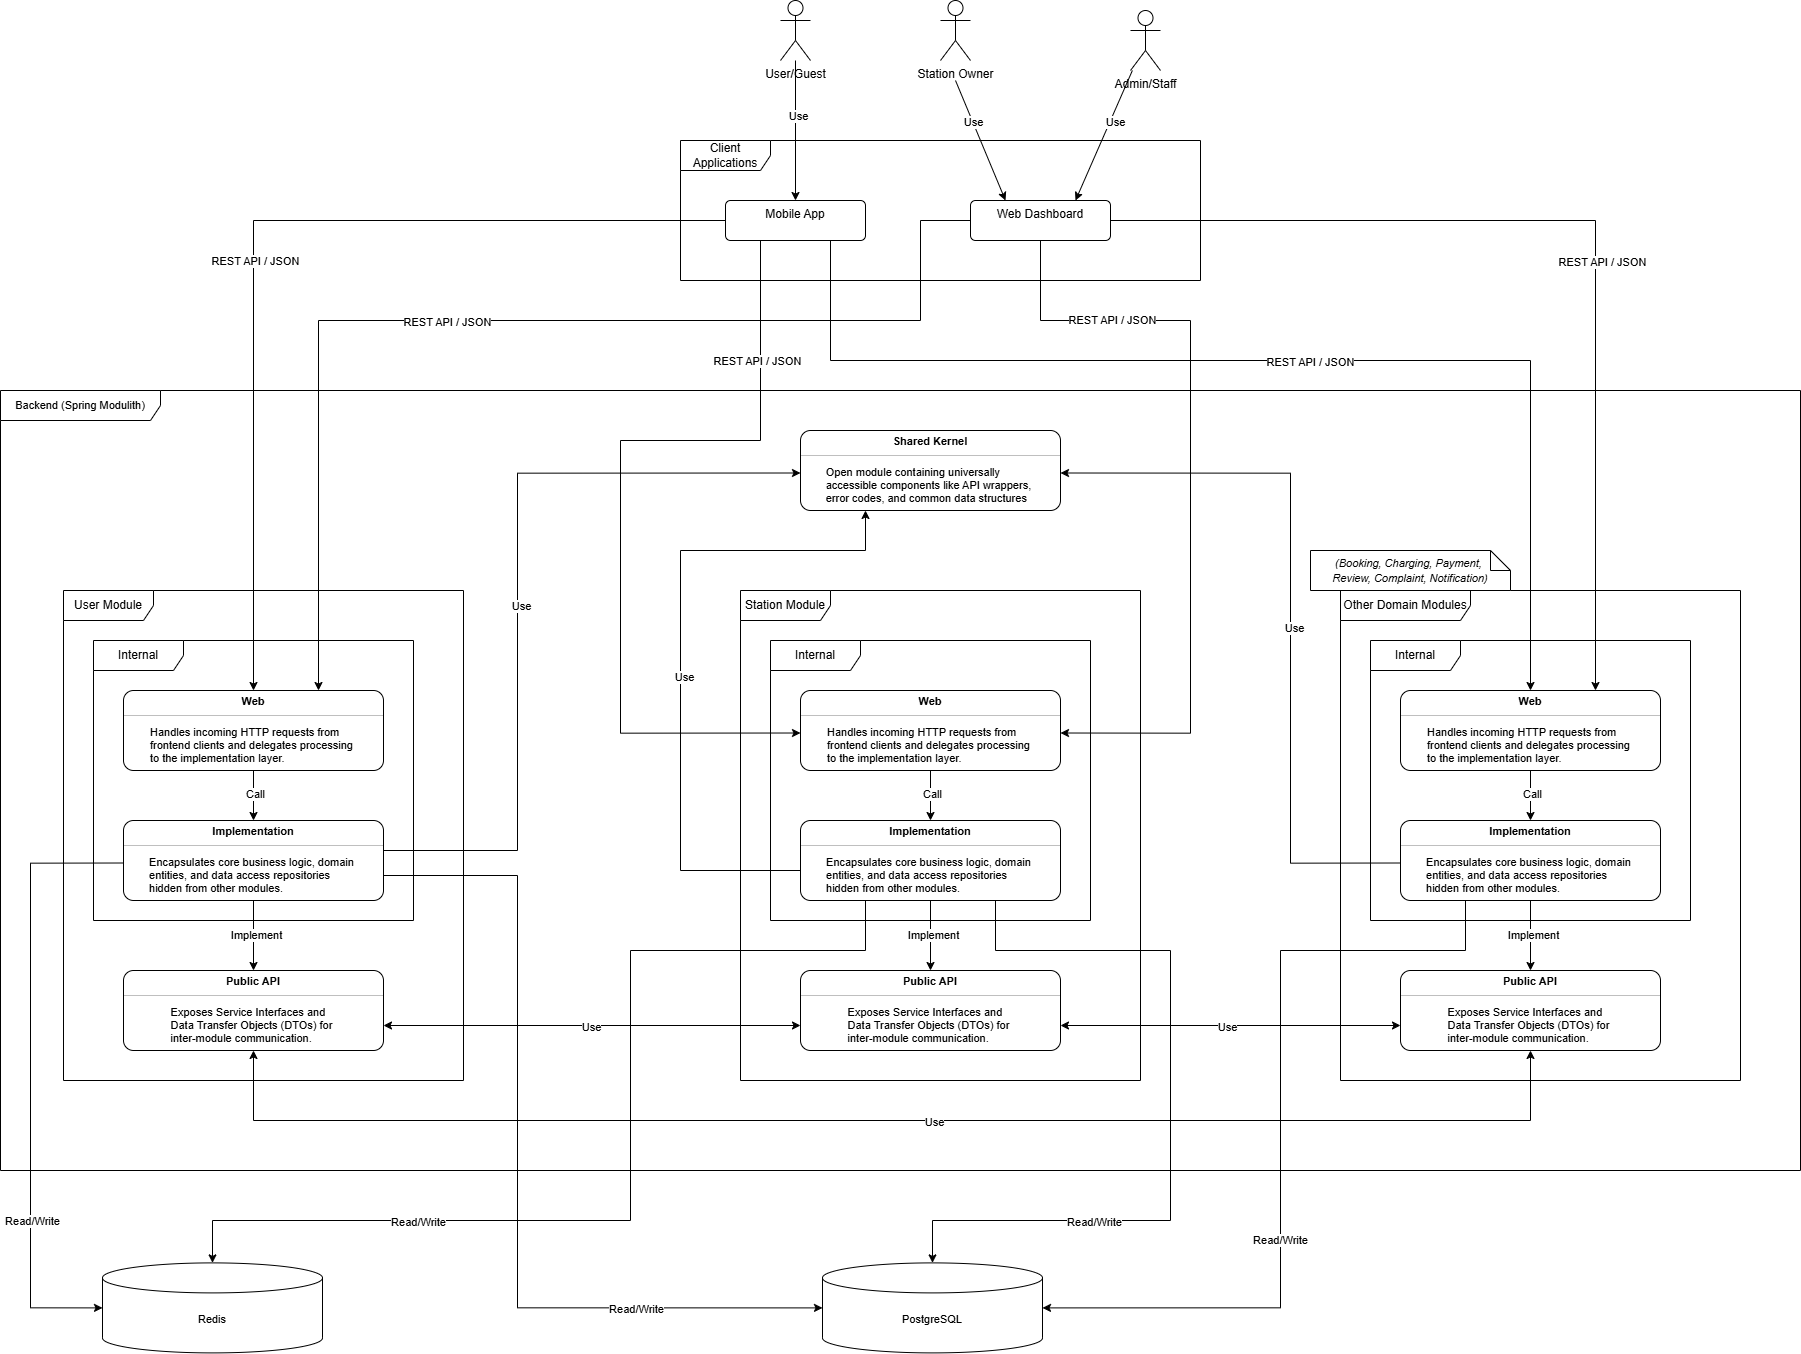
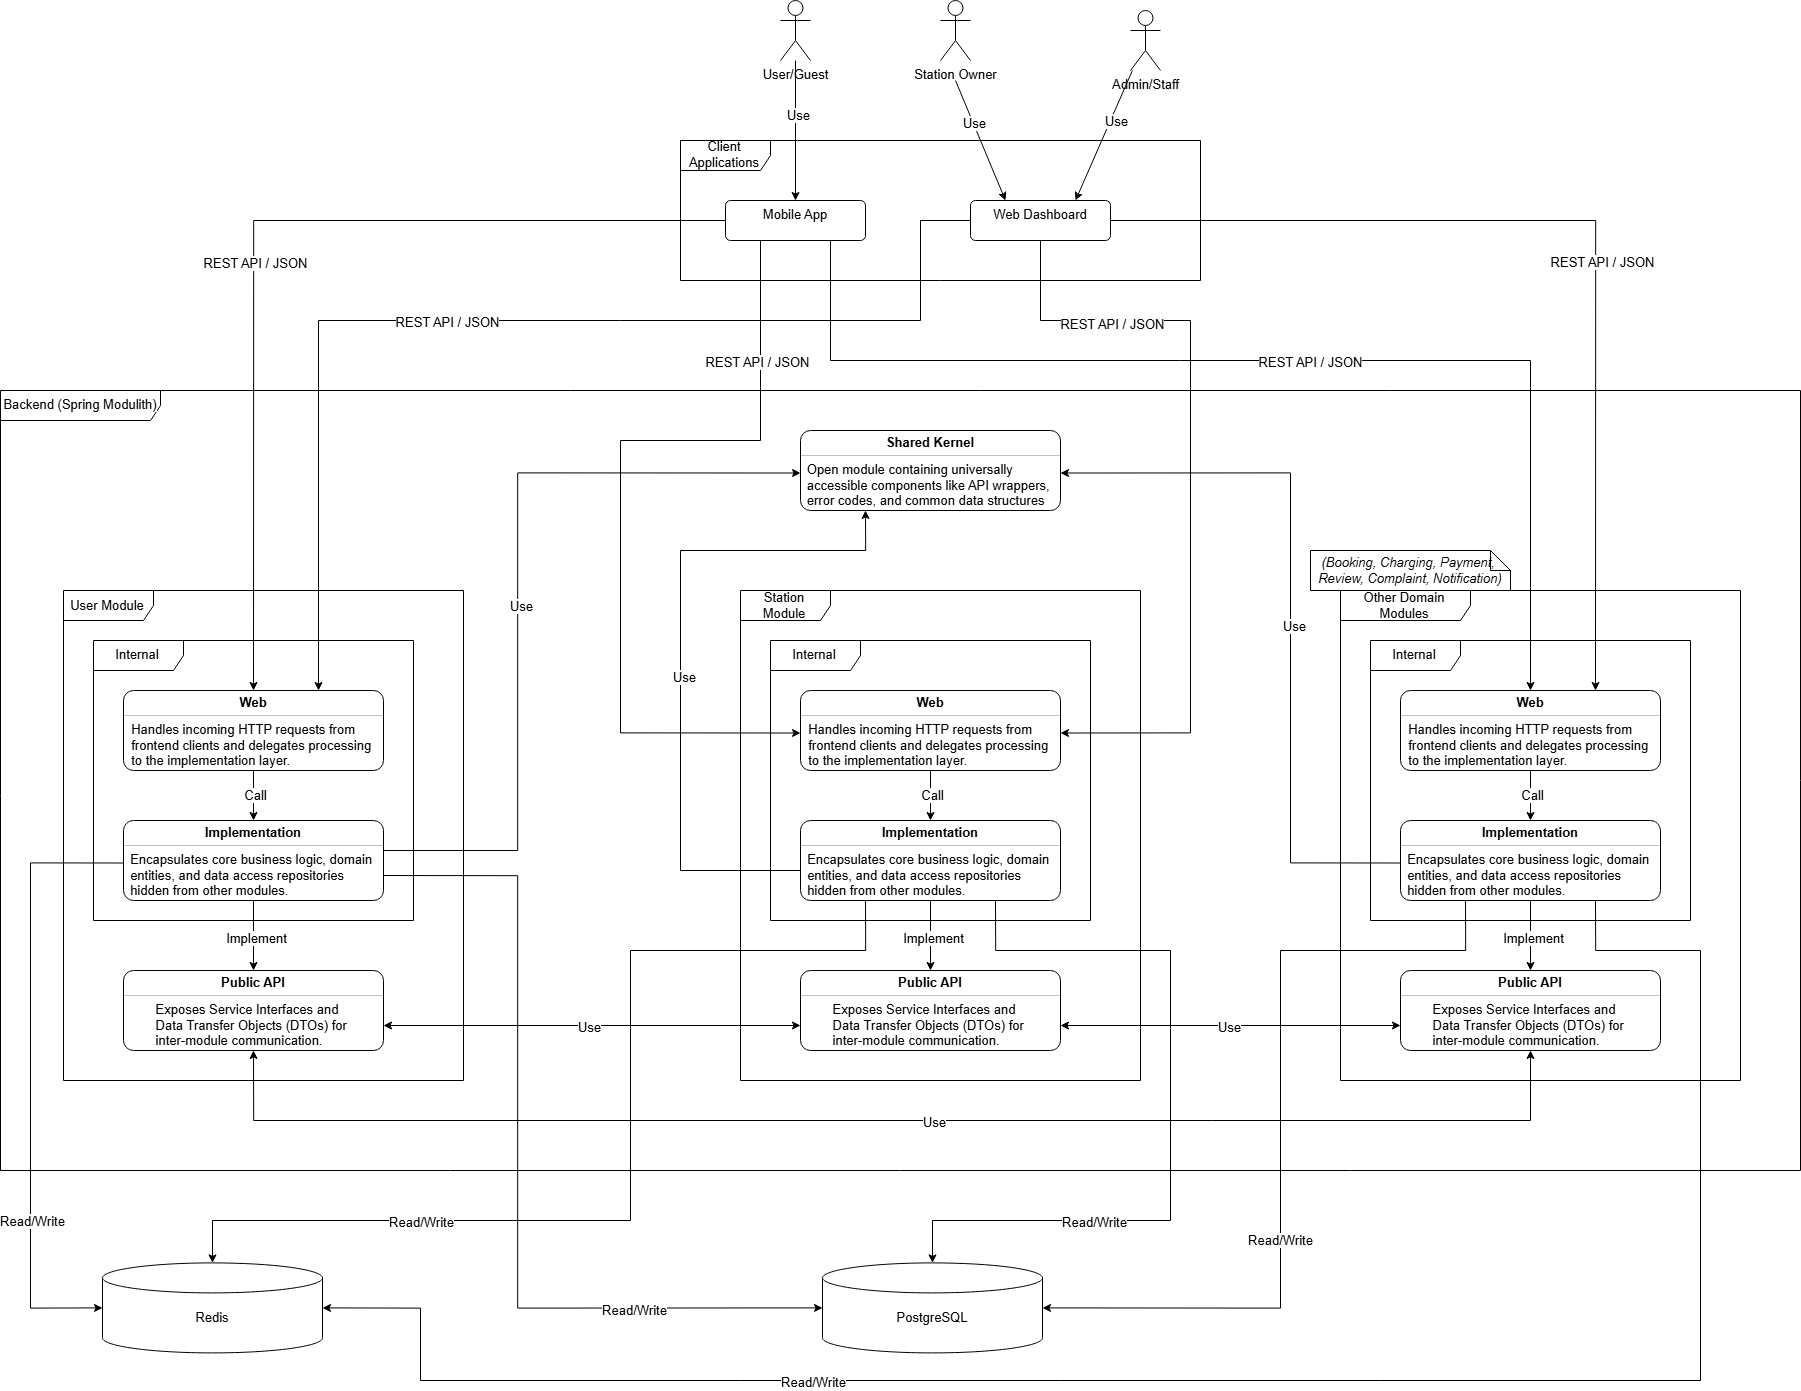
Thêm giao diện mobile vào chương 6

diff --git a/chapters/5_ThietKe.tex b/chapters/5_ThietKe.tex
@@ -12,8 +12,8 @@ Dựa trên yêu cầu về tính linh hoạt, khả năng bảo trì và mở r
 Khác với kiến trúc Layered Monolith truyền thống (phân chia theo tầng kỹ thuật: Controller, Service, Repository), kiến trúc của EV-Go phân chia hệ thống theo các nghiệp vụ chức năng. Mỗi nghiệp vụ được đóng gói thành một Module độc lập về mặt logic nhưng vẫn cùng tồn tại trong một đơn vị triển khai duy nhất.
 Mô hình này mang lại các ưu điểm vượt trội cho hệ thống:
 \begin{itemize}
-  \item \textbf{Tính đóng gói cao:} Mỗi module ẩn giấu implementation chi tiết và chỉ giao tiếp với bên ngoài thông qua các API công khai (Public API) được định nghĩa rõ ràng.
-  \item \textbf{Giảm thiểu sự phụ thuộc:} Sự phụ thuộc vòng (circular dependency) giữa các module bị ngăn chặn nghiêm ngặt ngay từ giai đoạn biên dịch nhờ cơ chế kiểm soát của Spring Modulith.
+  \item \textbf{Tính đóng gói cao:} Mỗi module ẩn giấu implementation chi tiết và chỉ giao tiếp với bên ngoài thông qua các Public API được định nghĩa rõ ràng.
+  \item \textbf{Giảm thiểu sự phụ thuộc:} Sự phụ thuộc vòng giữa các module bị ngăn chặn nghiêm ngặt ngay từ giai đoạn biên dịch nhờ cơ chế kiểm soát của Spring Modulith.
   \item \textbf{Khả năng tiến hóa:} Khi quy mô hệ thống tăng trưởng, các module độc lập có thể dễ dàng được tách ra thành các Microservices riêng biệt mà không cần thay đổi lớn về cấu trúc mã nguồn.
 \end{itemize}
 \subsubsection{Cấu trúc chi tiết của một Module}
@@ -29,14 +29,14 @@ Một đặc trưng quan trọng trong kiến trúc của hệ thống là sự 
 \subsubsection{Cơ chế giao tiếp liên Module (Inter-module Communication)}
 Hệ thống thiết lập quy tắc giao tiếp một chiều nghiêm ngặt để duy trì tính toàn vẹn của kiến trúc:
 \begin{itemize}
-  \item Các module giao tiếp với nhau \textbf{thông qua Public API}. Ví dụ, khi \textit{Station Module} cần thông tin chủ trạm, nó sẽ gọi \textit{UserService Interface} công khai thay vì truy cập trực tiếp vào bảng \textit{User} trong cơ sở dữ liệu.
+  \item Các module giao tiếp với nhau thông qua Public API. Ví dụ, khi \textit{Station Module} cần thông tin chủ trạm, nó sẽ gọi \textit{UserService Interface} thay vì truy cập trực tiếp vào bảng \textit{User} trong cơ sở dữ liệu.
   \item \textbf{Shared Kernel (Module dùng chung):} Nhằm hạn chế sự lặp lại mã nguồn, hệ thống xây dựng một module đặc biệt là \textit{Shared Kernel}. Module này đóng vai trò là thư viện nội bộ (Open Module), chứa các thành phần dùng chung cho toàn hệ thống như: mã lỗi, các lớp xử lý ngoại lệ toàn cục, và các cấu trúc dữ liệu chuẩn áp dụng cho toàn hệ thống. Tất cả các module nghiệp vụ đều có thể truy cập và sử dụng tài nguyên từ Shared Kernel.
 \end{itemize}
 \subsubsection{Hạ tầng dữ liệu}
-Dù được chia thành nhiều module logic, hệ thống sử dụng chung một cơ sở dữ liệu PostgreSQL để đảm bảo tính nhất quán của dữ liệu giao dịch (ACID) và đơn giản hóa việc quản lý. Tuy nhiên, việc truy xuất dữ liệu vẫn được phân quyền logic: mã nguồn của module nào chỉ được phép truy vấn các bảng dữ liệu thuộc phạm vi nghiệp vụ của module đó. Bên cạnh đó, Redis được tích hợp để giải quyết bài toán hiệu năng cao cho việc caching dữ liệu trạm sạc và quản lý phiên làm việc.
+Dù được chia thành nhiều module logic, hệ thống sử dụng chung một cơ sở dữ liệu PostgreSQL để đảm bảo tính nhất quán của dữ liệu giao dịch (ACID) và đơn giản hóa việc quản lý. Tuy nhiên, việc truy xuất dữ liệu vẫn được phân quyền logic: mã nguồn của module nào chỉ được phép truy vấn các bảng dữ liệu thuộc phạm vi nghiệp vụ của module đó. Bên cạnh đó, Redis được tích hợp để giải quyết bài toán hiệu năng cao cho việc caching dữ liệu và quản lý phiên làm việc.
 Tóm lại, kiến trúc Modular Monolith của hệ thống EV-Go không chỉ đáp ứng tốt các yêu cầu nghiệp vụ hiện tại mà còn tạo dựng một nền tảng vững chắc, sẵn sàng cho việc mở rộng quy mô và nâng cấp công nghệ trong tương lai.
 \subsection{Mô hình dữ liệu}
-Hình \ref{fig:evgo_erd} dưới đây mô tả sơ đồ thực thể mối quan hệ (Entity Relationship Diagram - ERD) của hệ thống EV-Go. Mô hình này được thiết kế nhằm đảm bảo tính toàn vẹn dữ liệu, khả năng mở rộng và hiệu năng truy vấn cho các nghiệp vụ cốt lõi như quản lý trạm sạc, đặt lịch, phiên sạc và thanh toán.
+Hình ảnh dưới đây mô tả sơ đồ thực thể quan hệ (Entity Relationship Diagram - ERD) của hệ thống EV-Go. Mô hình này được thiết kế nhằm đảm bảo tính toàn vẹn dữ liệu, khả năng mở rộng và hiệu năng truy vấn cho các nghiệp vụ cốt lõi như quản lý trạm sạc, đặt lịch, phiên sạc và thanh toán.
 
 \begin{figure}[H]
   \centering
@@ -48,7 +48,7 @@ Hình \ref{fig:evgo_erd} dưới đây mô tả sơ đồ thực thể mối qua
 \begin{itemize}
   \item \textbf{Nhóm thực thể Người dùng và Quản trị}
     \begin{itemize}
-      \item \textbf{User}: Lưu trữ thông tin định danh và cá nhân của người dùng tham gia hệ thống. Các thuộc tính quan trọng bao gồm \textit{user\_id} (khóa chính), \textit{email}, \textit{password} (mật khẩu đã mã hóa), \textit{full\_name}, \textit{phone\_number}, \textit{birthday}, \textit{gender}, \textit{avatar\_url} và \textit{status} (trạng thái hoạt động). Ngoài ra, hệ thống hỗ trợ xác thực qua bên thứ ba thông qua các trường \textit{auth\_provider} và \textit{provider\_id}.
+      \item \textbf{User}: Lưu trữ thông tin định danh và cá nhân của người dùng tham gia hệ thống. Các thuộc tính quan trọng bao gồm \textit{user\_id}, \textit{email}, \textit{password} (mật khẩu đã mã hóa), \textit{full\_name}, \textit{phone\_number}, \textit{birthday}, \textit{gender}, \textit{avatar\_url} và \textit{status} (trạng thái hoạt động). Ngoài ra, hệ thống hỗ trợ xác thực qua bên thứ ba thông qua các trường \textit{auth\_provider} và \textit{provider\_id}.
       \item \textbf{Role}: Định nghĩa các vai trò trong hệ thống (ví dụ: Admin, Station Owner, Customer). Mối quan hệ giữa \textit{User} và \textit{Role} là quan hệ N-M, cho phép một người dùng có thể đảm nhận nhiều vai trò khác nhau.
       \item \textbf{StationOwnerProfile}: Thực thể mở rộng dành cho người dùng có vai trò chủ trạm, giúp lưu trữ thông tin pháp lý và kinh doanh như \textit{business\_name}, \textit{tax\_code} (mã số thuế), \textit{identity\_number} (CCCD/CMND), \textit{owner\_type}, \textit{contact\_phone}, \textit{contact\_email}, \textit{bank\_account}, \textit{bank\_name} và \textit{pdf\_file\_path} (đường dẫn đến tài liệu đăng ký). Mối quan hệ giữa \textit{User} và \textit{StationOwnerProfile} là 1-1.
       \item \textbf{Vehicle}: Quản lý danh sách phương tiện của người dùng. Mỗi phương tiện được gắn với một người dùng và chứa thông tin về xe như \textit{model\_name}, \textit{brand}, \textit{connector\_type} (loại cổng sạc tương thích) và trạng thái \textit{in\_use}.

diff --git a/chapters/2_CoSoLyThuyetVaCongNghe.tex b/chapters/2_CoSoLyThuyetVaCongNghe.tex
@@ -145,7 +145,7 @@ Hệ thống EV-Go kết nối với các dịch vụ bên thứ ba để mở r
 
 \begin{itemize}
     \item \textbf{ZaloPay:} Cổng thanh toán điện tử phổ biến tại Việt Nam \cite{zalopay_docs}, được tích hợp qua cơ chế \textit{Deep Link} (chuyển hướng ứng dụng) và \textit{Webhook/IPN} (thông báo trạng thái tự động). Đây là lõi xử lý các giao dịch thanh toán trực tuyến cho chi phí đặt chỗ và chi phí sạc thực tế, hỗ trợ đối soát và kiểm tra công nợ an toàn.
-    \item \textbf{Expo Push Notifications API:} Hệ thống trung gian điều phối và gửi thông báo đẩy (Push Notifications) \cite{expo_push} thời gian thực đến thiết bị di động của người dùng (trên cả iOS và Android). Công nghệ này đóng vai trò quan trọng trong việc cảnh báo người dùng về các sự kiện nghiệp vụ như: cổng sạc sắp bị hủy do người dùng đến trễ, tiến trình sạc đã hoàn tất, hoặc sự cố lỗi gián đoạn.
+    \item \textbf{Expo Push Notifications API:} Hệ thống trung gian điều phối và gửi thông báo đẩy \cite{expo_push} theo thời gian thực đến thiết bị di động của người dùng. Công nghệ này đóng vai trò quan trọng trong việc cảnh báo người dùng về các sự kiện nghiệp vụ như: sắp đến giờ đã đặt lịch, tiến trình sạc đã hoàn tất, hoặc sự cố lỗi gián đoạn.
     \item \textbf{Cloudinary:} Dịch vụ lưu trữ ảnh và nội dung đa phương tiện trên đám mây. Việc sử dụng Cloudinary giúp giảm tải băng thông cho máy chủ Backend, đồng thời tối ưu tốc độ tải trang thông qua mạng lưới CDN (Content Delivery Network).
-    \item \textbf{Google Maps Platform:} Cung cấp nền tảng bản đồ số cốt lõi, hỗ trợ người dùng tìm kiếm trực quan vị trí các trạm sạc xung quanh, tính toán khoảng cách và gợi ý định tuyến lộ trình di chuyển tối ưu.
+    \item \textbf{Google Maps Platform:} Cung cấp nền tảng bản đồ số cốt lõi, hỗ trợ người dùng tìm kiếm vị trí các trạm sạc xung quanh một cách trực quan, tính toán khoảng cách và gợi ý lộ trình di chuyển tối ưu.
 \end{itemize}

diff --git a/chapters/4_YeuCau.tex b/chapters/4_YeuCau.tex
@@ -24,7 +24,7 @@ Hệ thống phân chia quyền hạn và chức năng dựa trên 5 nhóm đố
 Hệ thống được triển khai đồng bộ trên hai nền tảng kỹ thuật số:
 \begin{itemize}
     \item \textbf{Ứng dụng di động:} Giao diện tối ưu hóa trải nghiệm người dùng cuối (User/Guest), hỗ trợ các thao tác thời gian thực như quét QR, điều hướng bản đồ và thanh toán.
-    \item \textbf{Trang web quản lý:} Giao diện Dashboard chuyên nghiệp dành cho khối vận hành (Admin/Staff/Station Owner), tập trung vào khả năng hiển thị báo cáo, biểu đồ thống kê và công cụ quản lý.
+    \item \textbf{Trang web quản lý:} Giao diện Dashboard chuyên nghiệp dành cho khối vận hành (Super Admin/Staff/Station Owner), tập trung vào khả năng hiển thị báo cáo, biểu đồ thống kê và công cụ quản lý.
 \end{itemize}
 
 Tổng thể, hệ thống hướng đến việc hình thành một nền tảng quản lý thông minh, một ứng dụng hỗ trợ linh hoạt và thân thiện với người dùng, đóng vai trò hạ tầng số quan trọng trong quá trình phổ cập xe điện tại Việt Nam.